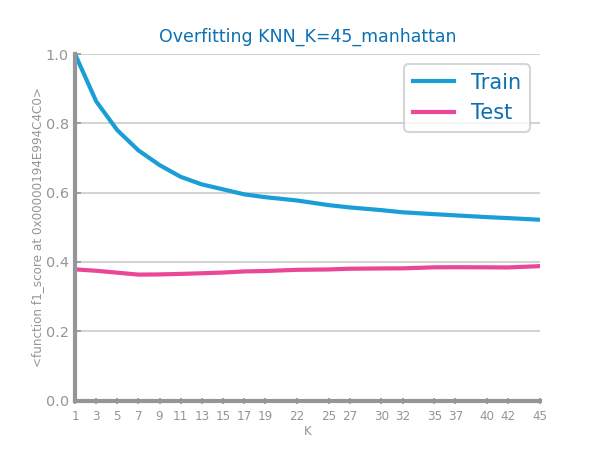
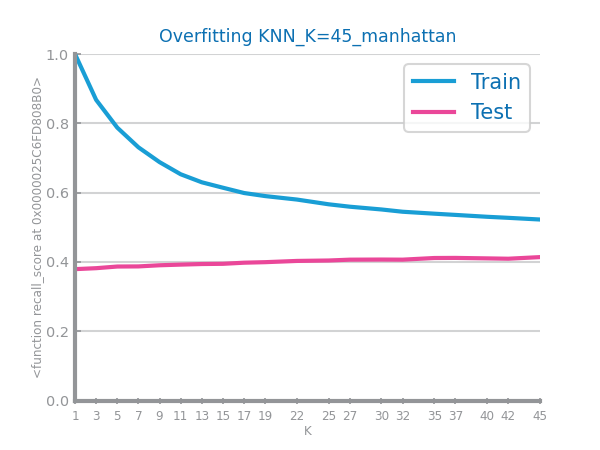
over fitting for oversample

diff --git a/overfitting_test.py b/overfitting_test.py
@@ -5,7 +5,7 @@ from sklearn.neighbors import KNeighborsClassifier
 from ds_charts import plot_evaluation_results, multiple_line_chart, plot_overfitting_study
 from sklearn.metrics import accuracy_score , precision_score, recall_score, f1_score
 
-file_tag = 'diabetes_f1'
+file_tag = 'diabetes_rec'
 filename = 'data/Balancing/diabetic_oversample'
 target = 'readmitted'
 
@@ -19,7 +19,7 @@ test: DataFrame = read_csv(f'{filename}_test.csv')
 tstY: ndarray = test.pop(target).values
 tstX: ndarray = test.values
 
-eval_metric = f1_score
+eval_metric = recall_score
 nvalues = [1, 3, 5, 7, 9, 11, 13, 15, 17, 19, 22, 25, 27, 30, 32, 35, 37, 40, 42, 45]
 from matplotlib.pyplot import figure, savefig
 
@@ -27,10 +27,10 @@ def plot_overfitting_study(xvalues, prd_trn, prd_tst, name, xlabel, ylabel):
     evals = {'Train': prd_trn, 'Test': prd_tst}
     figure()
     multiple_line_chart(xvalues, evals, ax = None, title=f'Overfitting {name}', xlabel=xlabel, ylabel=ylabel, percentage=True)
-    savefig(f'images/overfitting_{name}.png')
+    savefig(f'images/balancing/KNN/diabetic/oversample/overfitting_{name}.png')
 
 d = 'manhattan'
-eval_metric = f1_score
+eval_metric = recall_score
 y_tst_values = []
 y_trn_values = []
 for n in nvalues:
